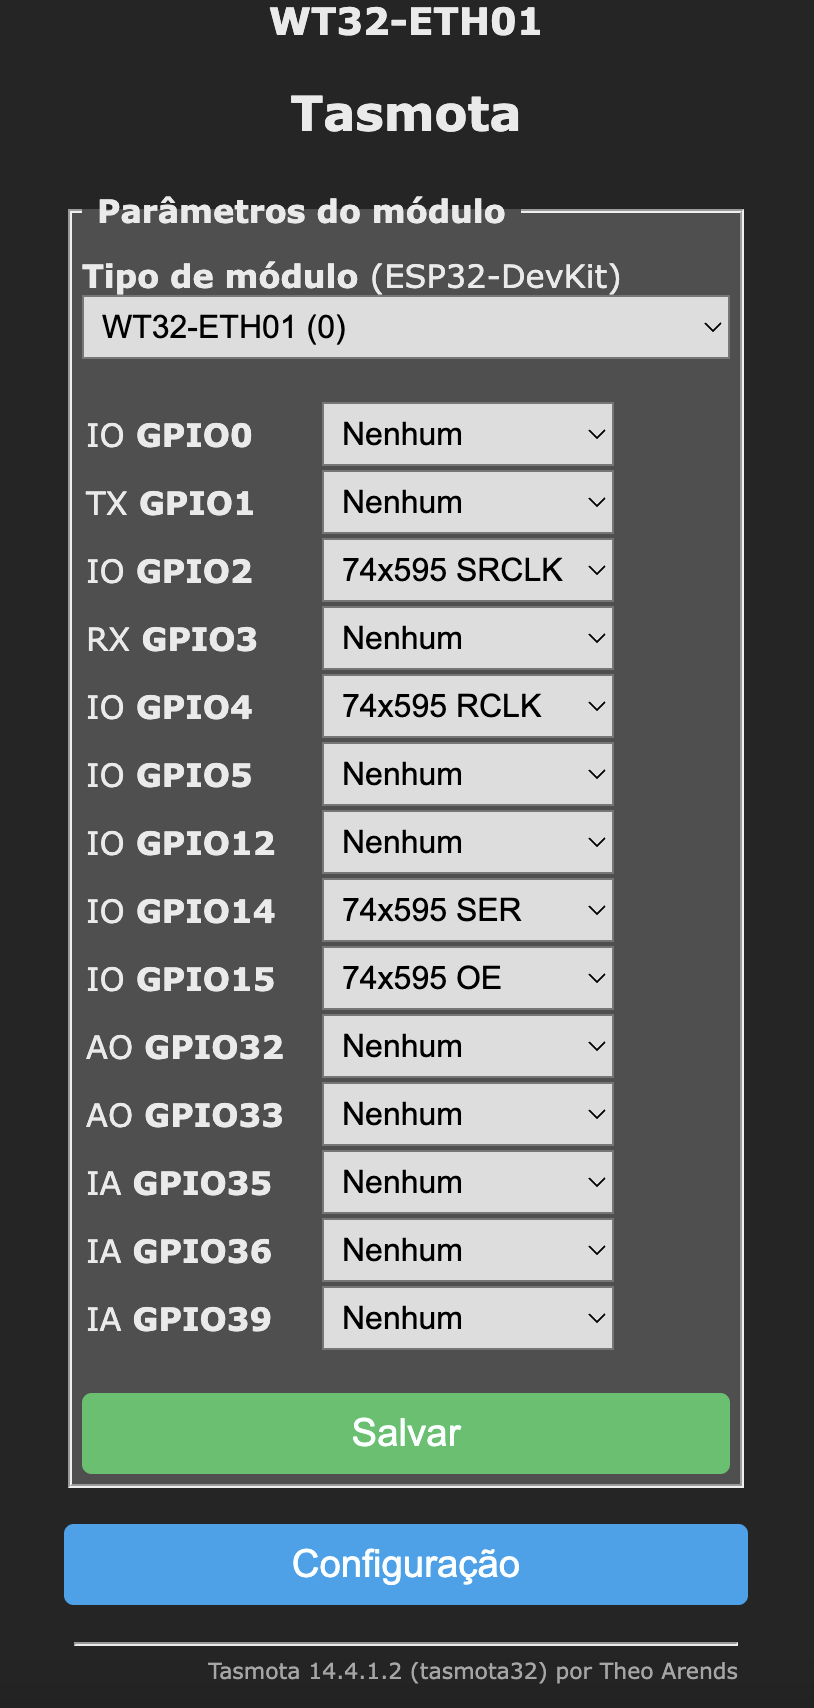
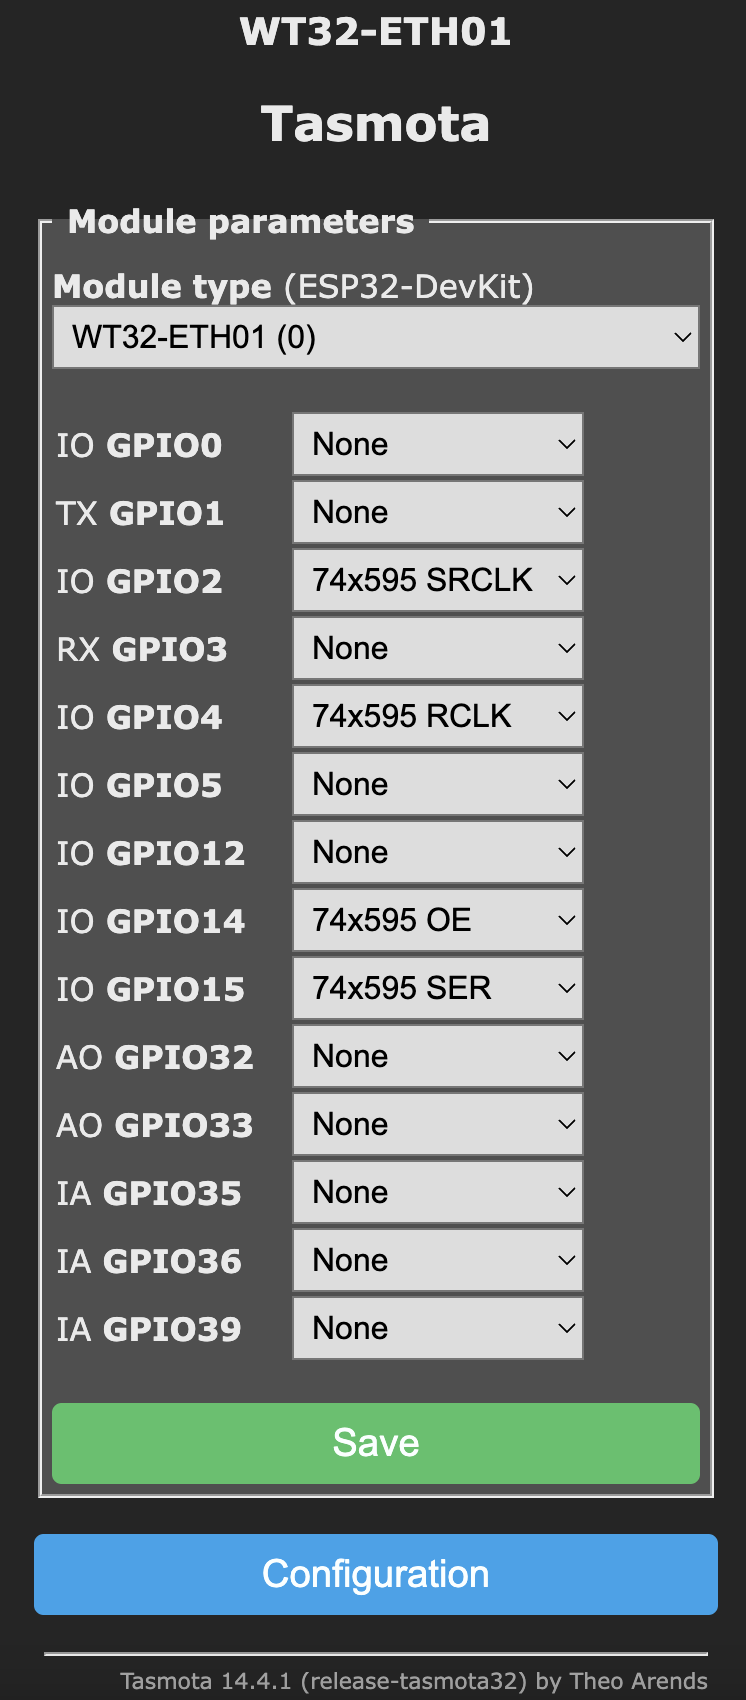
wip

diff --git a/tasmota/74595/README.md b/tasmota/74595/README.md
@@ -2,4 +2,10 @@
 ### Template
 ```json
 {"NAME":"WT32-ETH01","GPIO":[1,1,1,1,1,1,0,0,1,0,1,1,3840,576,5600,0,0,0,0,5568,0,0,0,0,0,0,0,0,1,1,0,1,1,0,0,1],"FLAG":0,"BASE":1}
+
+Shift595DeviceCount 2
+SetOption36 0
+
+{"NAME":"WT32-ETH01","GPIO":[1,1,1,1,1,1,0,0,1,0,1,1,3840,576,5600,0,0,0,0,5568,0,0,0,0,0,0,0,0,1,1,0,1,1,0,0,1],"FLAG":0,"BASE":1,"CMND":"GPIO2 8288|GPIO4 8320|GPIO14 8352|GPIO15 8384|SetOption36 0|Shift595DeviceCount 2"}
 ```
+
